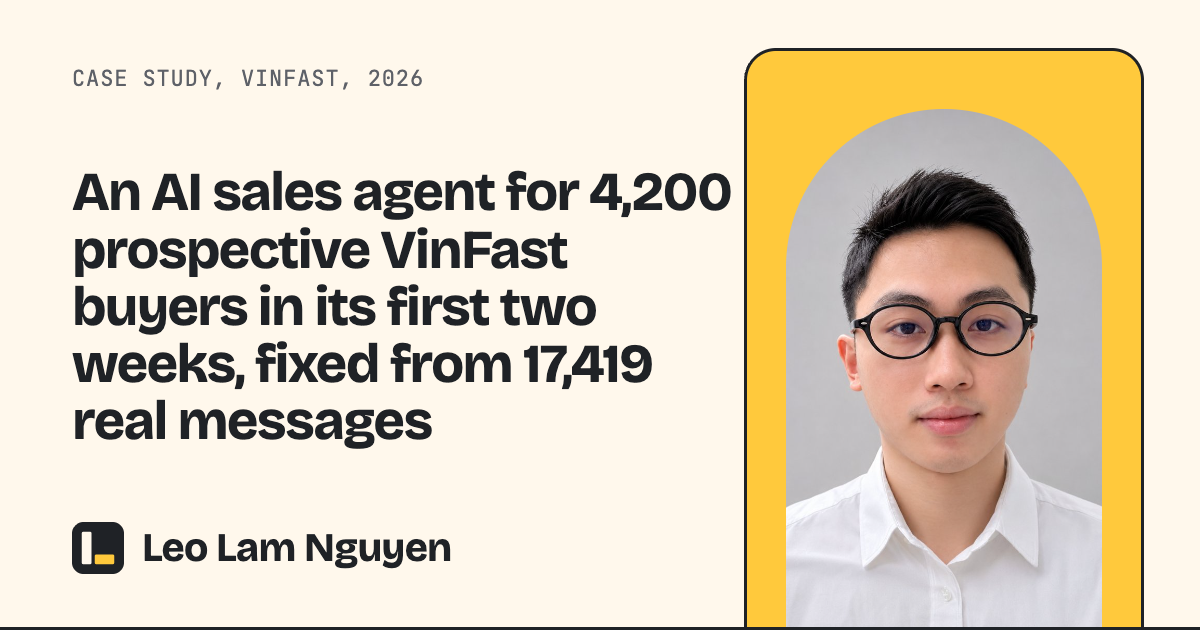
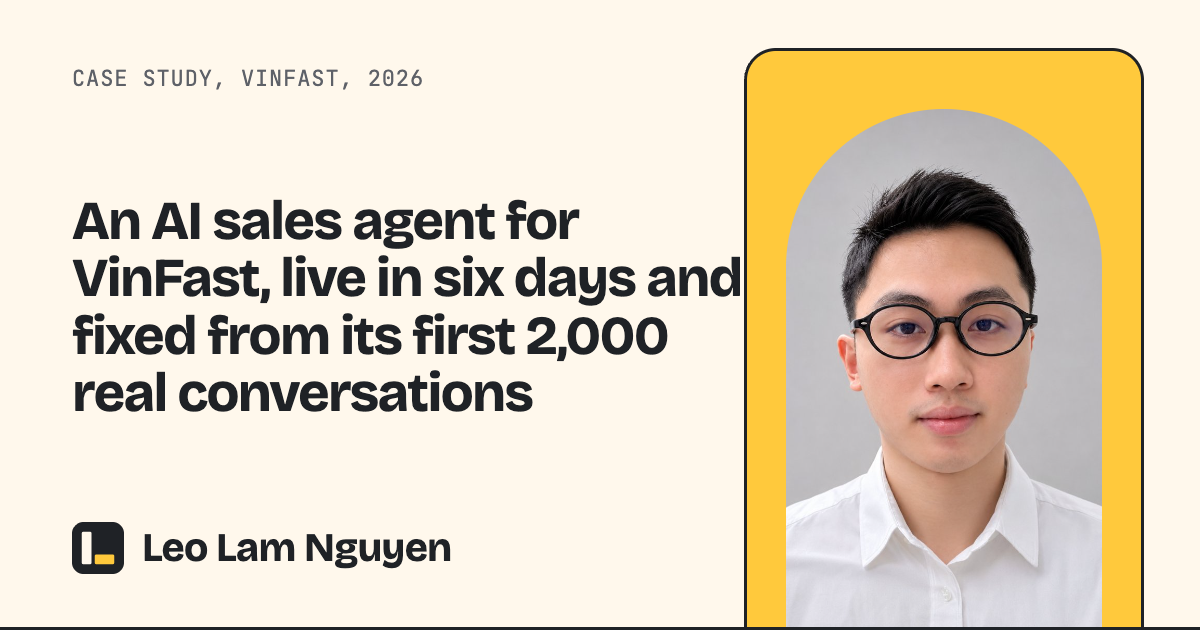
Correct live case claims: rates instead of VinFast counts, honest credit

Changed region(s): [[0.0617, 0.2714, 0.6167, 0.7238]]

diff --git a/BUILD_LOG.md b/BUILD_LOG.md
@@ -36,3 +36,4 @@ One line per step: what Claude did, what was fixed by hand and why, and which ch
 - 2026-11-20: Tone pass at Leo's request: replaced every "Not proven yet" line with a forward-looking "Next" line and removed wording that made projects sound small ("a small team", "use not measured", "user testing not started"), without changing any number or status claim. Checks: build clean, axe 0.
 - 2026-11-20: Restructure after a recruiter-eye review. Two verifier agents re-checked every live claim against the vault and a research agent collected impact-writing patterns. Merged twelve short items into the cases: email series into ai-sales-agent; cost tool, listing pages and domain move into car-product-pages; lead tracking, GA4 audit, deposit audit, daily report and dashboard into the new o2o-measurement case; bank pages and loyalty prototype into zalo-showroom (now three channels); data warehouse into b2b-website-leads; food cart and driver recruitment into xanh-sm-rider-journeys. Work page now has two sections (AI products, Growth and product) and no short-item list. Corrections from the verifiers: 7x leads tile removed (Meta lead logging started 5 Nov), 29 not 30 Zalo models and no 95-check table, Zalo passed acceptance testing 2 Nov rather than signed off, nine car pages audited, entry points live 23 and 30 Oct, Xanh SM 2.1M and 1.1M were targets (removed), +28% is trips in the never-ridden journeys, food cart fixes were proposals, Dyno build and four ruled-out requests unsourced (removed, replaced by a sourced constraints table), no CRM in the warehouse, About copy narrowed. Titles shortened, slogan headings rewritten, every "Not proven yet" now a "Next" line. Checks: build clean, axe 0, no horizontal scroll, writing scan clean.
 - 2026-11-21: About rebuilt as a CV timeline and a two-page PDF CV, both read from one data file (src/data/cv.ts); /cv is the print page (noindex, left out of the sitemap) and scripts/cv/render-cv-pdf.cjs prints it to public/leo-lam-nguyen-cv.pdf. Content went through six drafts with Leo: bullet length measured on 353 bullets from 24 real PM CVs (median 22 words), a native-editor pass, then a second measurement on 16 CVs (44 roles, 198 bullets) after Leo said the bullets read as a list of projects: 24 of 44 roles open with a scope bullet, so each role now opens with one (channels, products, scale) taken from the vault. Fixed by hand: the site's variable Inter printed as broken words for PDF text extraction ("Prod u c t"), so the PDF body is Arial; list markers outside the text box were clipped at the print margin, so bullets are drawn; break rules keep every bullet and every company or role heading with its first bullet on one page. School logos added at Leo's request (Duke, UVA Darden, Stanford, LJMU, UWE, Tomorrow Marketers). Checks: build clean, axe 0 on /about and /cv, no horizontal scroll from 320 to 1440 px, writing scan clean, PDF page break checked by rendering each page.
+- 2026-11-21: Live-case corrections Leo approved, from the CV verifiers' notes. VinFast absolute counts removed under the vault privacy rule (rates only): 4,227 people, 17,419 messages and 5,200 contacts on the AI sales agent (title, tile, caption, alt, reach line; the new tile is 57% of chats after office hours), 1 lead in 3,638 now 99.97% in a test run, 1,000+ Zalo leads, 800 to 1,000 leads a month and 21,363 sessions on the loyalty app. Credit and causality: the installment fix of 4 Nov came after the manager's review and before the error analysis; Zalo deposits in phase 2 were set by the brief, so that decision now shows Leo's own call (three launch options for legal) and the user-ID decision, which was the build partner's design, was folded into it; car pages report 81% from Leo's spec, with 87% including the designer's header button and a note that the bottom form change lifts the count; 52 prospects came from a two-week run, not the first two weeks; Xanh SM journeys were tracked weekly, not A/B tested weekly; the 71% form completion was 5 of 7 people, so it left the tile and chart and is now told as a direction. Re-rendered OG images for the three retitled cases. Checks: build clean, axe 0 and no horizontal scroll on home, Work and the seven changed cases, writing scan clean.
